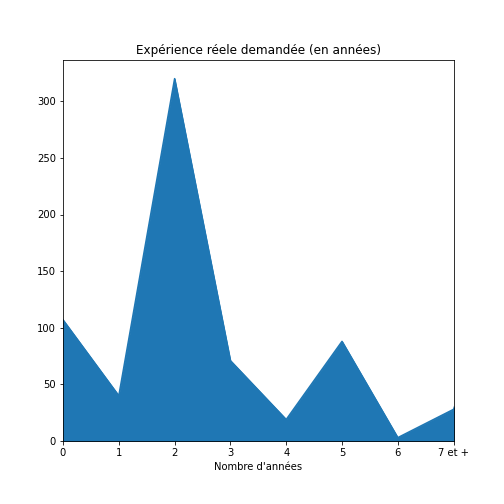
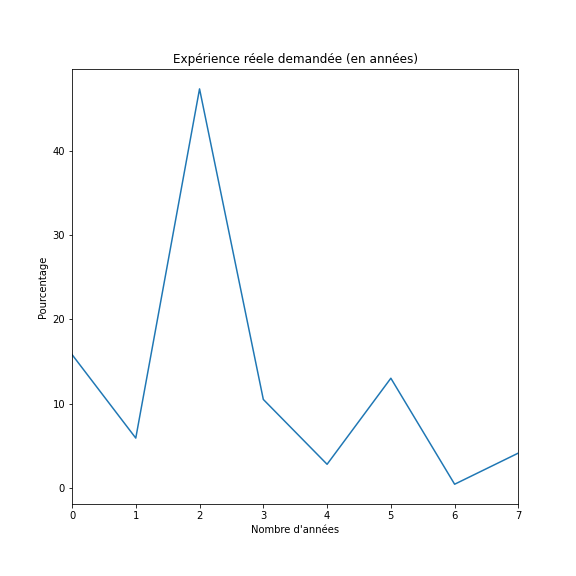
update

diff --git a/Traitement/prod_graphique.py b/Traitement/prod_graphique.py
@@ -33,10 +33,11 @@ def make_autopct(values):
         val = int(round(pct*total/100.0))
         return '{p:.1f}% ({v:d})'.format(p=pct,v=val)
     return my_autopct
-plt.figure(figsize =(8,8), )
-plt.pie([originals,duplicates], explode = (0 ,0.1), labels = labels, shadow =True, autopct=make_autopct(data))
-plt.title("Quantité d'annonces en double")
-plt.savefig('Images/Duplicata.png')
+
+fig_d, ax_d = plt.subplots(figsize=(8,8))
+ax_d.pie([originals,duplicates], explode = (0 ,0.1), labels = labels, shadow =True, autopct=make_autopct(data))
+ax_d.set(title="Proportion des annonces en doubles")
+ax_d.figure.savefig('Images/Duplicata.png')
 
 
 # on va ensuite supprimer les doublons
@@ -95,15 +96,17 @@ for i in range(len(df)):
 df['typei'] = df['intitule'].apply(is_stage)
 df['typet'] = df['texte'].apply(is_stage)
 
-fig, (ax1, ax2) = plt.subplots(1,2, figsize=(10,5))
+fig, (ax1, ax2) = plt.subplots(1,2, figsize=(10,6))
 fig.suptitle("Repartition des types dans les annonces")
+plt.subplots_adjust(wspace = -0.1)
 
-ax1.pie(df['type_contrat'].value_counts(),labels = df['type_contrat'].value_counts().index , autopct=make_autopct(df['type_contrat'].value_counts()))
+ax1.pie(df['type_contrat'].value_counts(),autopct=make_autopct(df['type_contrat'].value_counts()))
 ax1.title.set_text('Type encodé')
 
-ax2.pie(df['type_reel'].value_counts(),labels = df['type_reel'].value_counts().index , autopct=make_autopct(df['type_reel'].value_counts()))
+ax2.pie(df['type_reel'].value_counts(), autopct=make_autopct(df['type_reel'].value_counts()))
 ax2.title.set_text("Type réel")
 
+fig.legend(labels = df['type_reel'].value_counts().index)
 plt.show()
 fig.savefig('Images/Tx_types.png')
 
@@ -252,8 +255,6 @@ for i in range(len(df)):
     if df.loc[i,'xp_reel'] >= 7 : 
         df.loc[i,'xp_reel'] = 7
       
-dat = df['xp_reel'].value_counts(normalize=True).mul(100).sort_index()
-# ax = dat.plot(kind='line', title= "Expérience réele demandée" )
 
 #le remplissage à la main :'( 
 
@@ -267,18 +268,24 @@ df_compte = df.xp_reel.value_counts().sort_index()
 a = pd.Series([df.xp_reel.isna().sum()])
 df_compte = df_compte.append(a)
 df_compte.index = ["0","1","2","3","4","5","6","7 et +", "Non Spécifié"]
+dat = df['xp_reel'].value_counts(normalize=True).mul(100).sort_index()
 
 
-plt.figure(figsize=[7,7])
-ax_xp = df_compte.plot.area(title= "Expérience réele demandée (en années)", xlabel = "Nombre d'années", xlim = [0,7])
+fig_xp, ax_xp = plt.subplots(figsize=(8,8))
+ax_xp.plot(dat)
+ax_xp.set( title = "Expérience réele demandée (en années)", xlabel = "Nombre d'années", ylabel = "Pourcentage", xlim = [0,7])
 plt.show()
 ax_xp.figure.savefig('Images/xp.png')
 
 
+fig_pxp, ax_pxp = plt.subplots(figsize=(8,8))
 
-plt.figure(figsize=[8,8])
-df_compte.plot(kind="pie", autopct=make_autopct(df_compte), radius = 0.8, pctdistance=1.4 ,labeldistance= 0.6, explode = (0,0,0,0,0,0,0.3,0.2,0), title= "Expérience réele demandée (en années)", shadow = True, ylabel="")
-plt.savefig('Images/xp_pie.png')
+ax_pxp.pie(df_compte,  autopct=make_autopct(df_compte), radius = 0.8, pctdistance=1.3, explode = (0,0,0,0,0,0,0.3,0.2,0))
+ax_pxp.set( title = "Expérience réele demandée (en années)")
+plt.legend(df_compte.index, loc =2 , bbox_to_anchor=(1, 1))
+plt.show()
+ax_pxp.figure.savefig('Images/xp_pie.png')
+
 
 # sns.countplot(x = df['xp_reel'] , data=df)
 # plt.show()
@@ -316,13 +323,13 @@ fig, (ax1, ax2, ax3) = plt.subplots(1,3, figsize=(15,5))
 fig.suptitle("Taux de fautes dans l'expérience des annonces")
 
 
-ax1.pie(df_xp["erreur_xp"].value_counts(), labels = ["Erronée", "Correct"], autopct=make_autopct(df_xp["erreur_xp"].value_counts()))
+ax1.pie(df_xp["erreur_xp"].value_counts(), labels = ["Erronée", "Correct"], autopct=make_autopct(df_xp["erreur_xp"].value_counts()), colors = ['red','green'])
 ax1.title.set_text('Total')
 
-ax2.pie(df_xp.loc[df_xp["site"] == "Linkedin","erreur_xp"].value_counts(), labels = ["Erronée", "Correct"], autopct=make_autopct(df_xp.loc[df_xp["site"] == "Linkedin","erreur_xp"].value_counts()))
+ax2.pie(df_xp.loc[df_xp["site"] == "Linkedin","erreur_xp"].value_counts(), labels = ["Erronée", "Correct"], autopct=make_autopct(df_xp.loc[df_xp["site"] == "Linkedin","erreur_xp"].value_counts()), colors = ['red','green'])
 ax2.title.set_text('Linkedin')
 
-ax3.pie(df_xp.loc[df_xp["site"] == "apec","erreur_xp"].value_counts(), labels = ["Erronée", "Correct"], autopct=make_autopct(df_xp.loc[df_xp["site"] == "apec","erreur_xp"].value_counts()))
+ax3.pie(df_xp.loc[df_xp["site"] == "apec","erreur_xp"].value_counts(), labels = ["Erronée", "Correct"], autopct=make_autopct(df_xp.loc[df_xp["site"] == "apec","erreur_xp"].value_counts()), colors = ['red','green'])
 ax3.title.set_text('APEC')
 
 plt.show()

diff --git a/README.md b/README.md
@@ -99,6 +99,7 @@ Note = Indeed ne permet pas d'encoder de niveau d'expérience. Je ne peux donc p
 
 On peut remarquer un score mauvais pour Linkedin (Plus de 50%!).
 Il peut être expliqué par le fait qu'il s'agit du site le plus important, et donc le plus enclin aux erreurs. Je ne m'attendais cependant pas à un tel niveau.
+
 L'APEC propose un système d'encodage plus fin, les erreurs viennent souvent du fait qu'il existe un encodage "tout niveaux acceptés", alors que ce n'est pas du tout le cas.
 
 Linkedin propose un encodage "Débutant", qui demandent la plupart du temps une expérience d'au moins 2-3 ans
